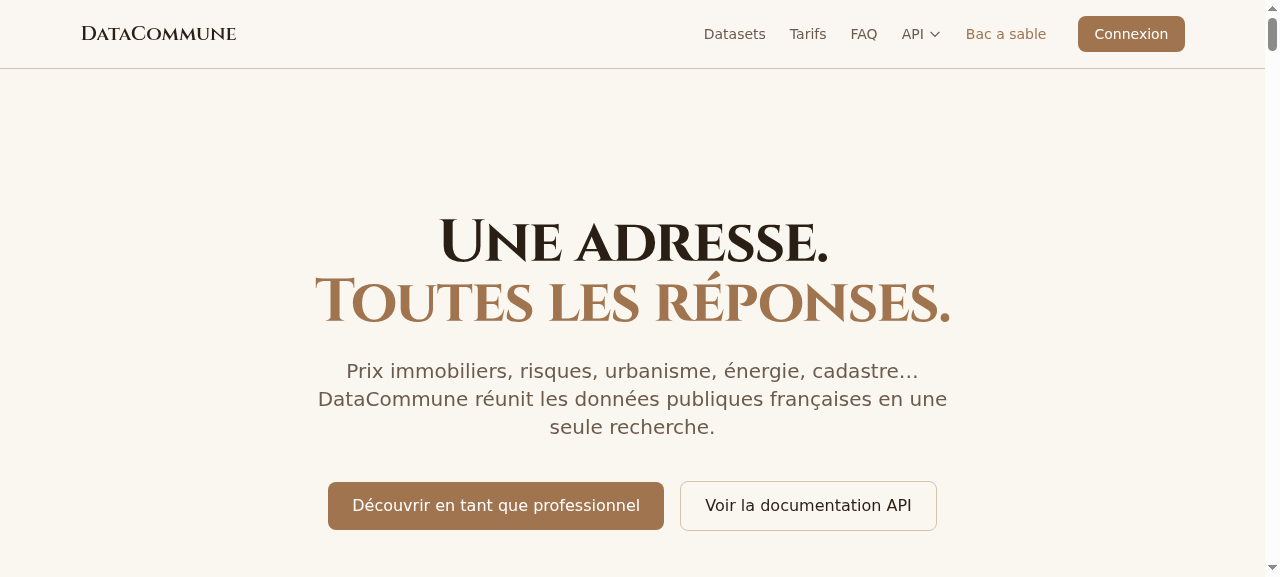
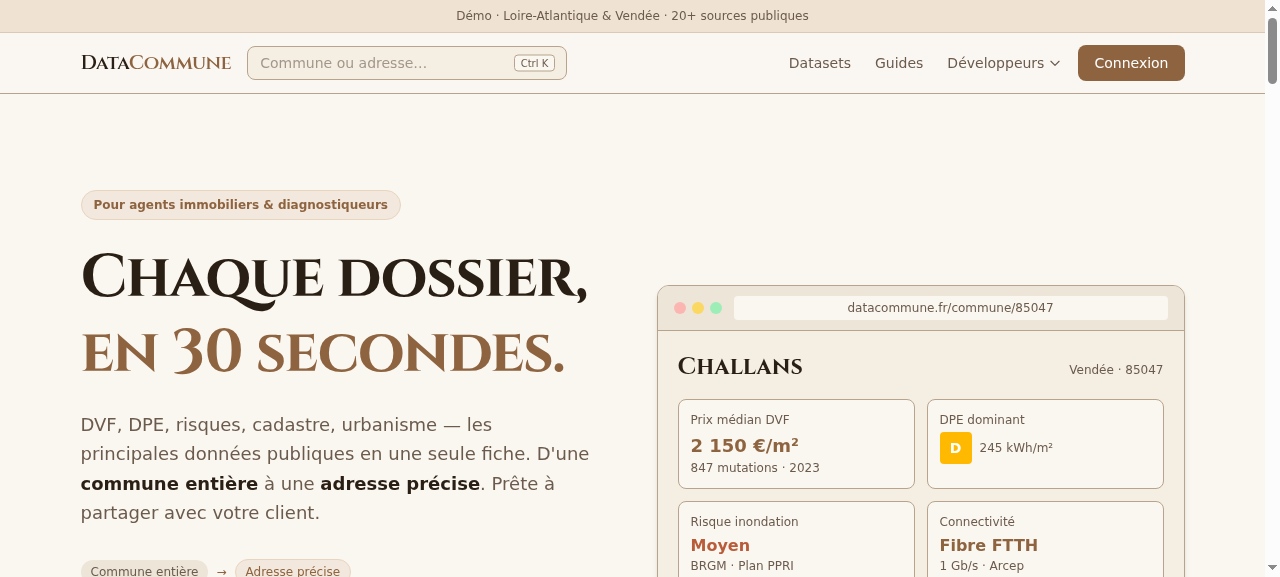
feat(ui): rebuild case-studies section as editorial alternating rows
Replaces nested bordered cards and internal fact grids (dense,
flat-hierarchy) with full-width editorial rows separated by the
standard hairline. Structure chosen among 3 live variants.

- alternating visuals: datacommune.fr capture left, GitHub Actions
  capture right, terminal topology panel for the private homelab
- screenshots framed with a browser-chrome bar (external-site cue)
- fresh datacommune.fr landscape capture (current product version)
- inline facts with per-project accent (green / brass / terracotta /
  ink, all AA-checked); Automatisation AD reduced to a one-liner
- per-project accent and domain fields added to projects data

diff --git a/src/data/projects.js b/src/data/projects.js
@@ -34,6 +34,8 @@ export const projects = [
     ],
     image: '/projects/datacommune-homepage.png',
     imageAlt: 'Page d’accueil de DataCommune',
+    accent: 'var(--bronze-dark)',
+    domain: 'datacommune.fr',
     gallery: [
       { src: '/projects/datacommune-datasets.png', alt: 'Catalogue des jeux de données DataCommune' },
       { src: '/projects/datacommune-api.png', alt: 'Documentation interactive de l’API DataCommune' },
@@ -75,6 +77,8 @@ export const projects = [
     ],
     image: '/projects/hexalith-gitops.png',
     imageAlt: 'Pipeline Terraform Hexalith réussi dans GitHub Actions',
+    accent: 'var(--gold-dark)',
+    domain: 'github.com',
     gallery: [
       { src: '/projects/hexalith-sso.png', alt: 'Connexion GLPI proposée par le fournisseur d’identité Authentik' },
     ],
@@ -112,6 +116,7 @@ export const projects = [
       'Un seul nœud Proxmox porte aujourd’hui l’essentiel de la charge : la sauvegarde est prouvée, la haute disponibilité ne l’est pas.',
       'Le dépôt et la topologie détaillée restent privés pour ne pas exposer les accès internes.',
     ],
+    accent: 'var(--terracotta-dark)',
   },
   {
     slug: 'automatisation-ad',
@@ -144,6 +149,7 @@ export const projects = [
       'Le code et les données restent privés car ils appartiennent au contexte d’entreprise.',
       'L’outil assiste la décision ; il ne remplace ni la validation humaine ni les contrôles natifs.',
     ],
+    accent: 'var(--ink-muted)',
   },
 ];
 